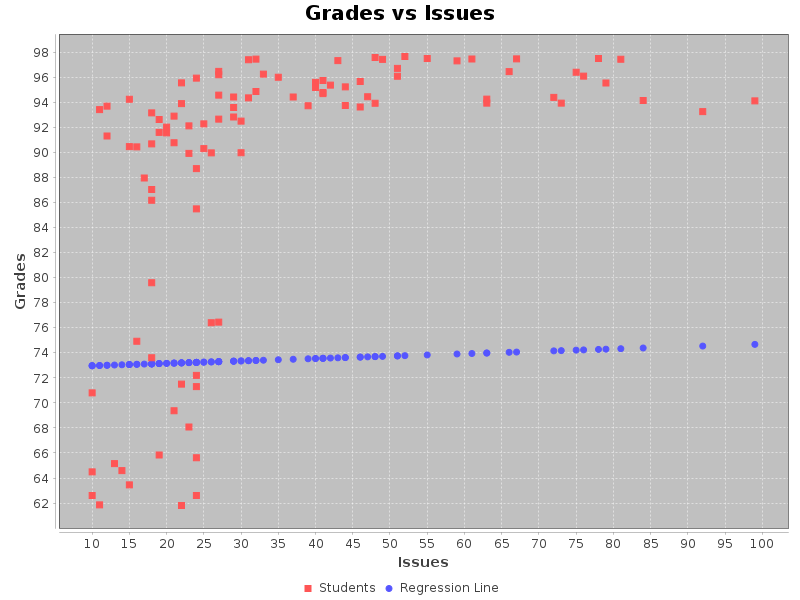
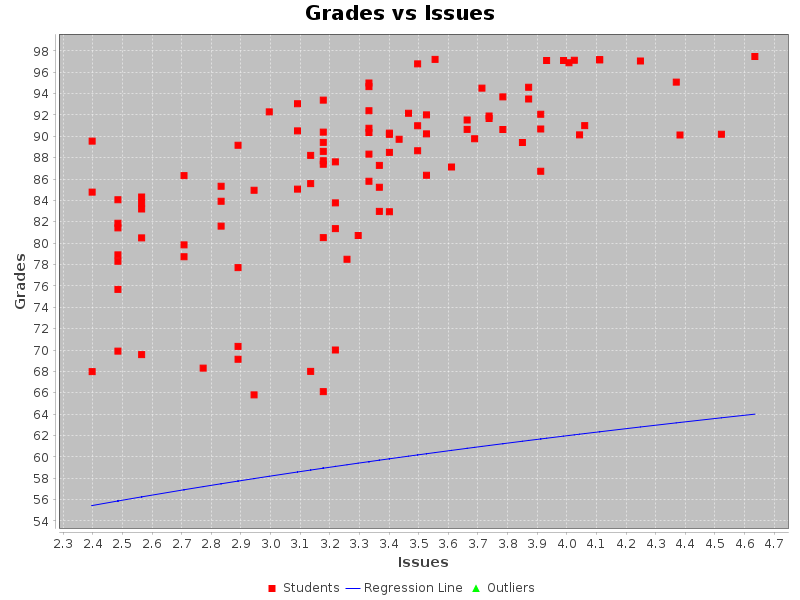
EVERYTHING UPDATED WE UP NOW

diff --git a/src/main/java/com/nighthawk/spring_portfolio/mvc/models/MultiVarAnalyticsGradeRegression.java b/src/main/java/com/nighthawk/spring_portfolio/mvc/models/MultiVarAnalyticsGradeRegression.java
@@ -1,7 +1,10 @@
 package com.nighthawk.spring_portfolio.mvc.models;
 
+import java.awt.Color;
 import java.awt.image.BufferedImage;
 import java.util.Arrays;
+import java.util.List;
+import java.util.ArrayList;
 
 import javax.imageio.ImageIO;
 
@@ -14,18 +17,17 @@ import org.apache.commons.math3.linear.RealVector;
 import org.jfree.chart.ChartFactory;
 import org.jfree.chart.JFreeChart;
 import org.jfree.chart.plot.PlotOrientation;
+import org.jfree.chart.renderer.xy.XYLineAndShapeRenderer;
 import org.jfree.data.xy.XYSeries;
 import org.jfree.data.xy.XYSeriesCollection;
 
 public class MultiVarAnalyticsGradeRegression {
+
     public static void main(String[] args) {
-        // Mock data representing GitHub analytics for each student
-        // Generate mock data representing GitHub analytics for 100 students
         int numStudents = 100;
         double[][] xData = MockDataGenerator.generateXData(numStudents);
         double[] yData = MockDataGenerator.generateYData(xData);
 
-        // Calculate coefficients
         double[] coefficients = calculateCoefficients(xData, yData);
         double[] coefficientsCommits = {coefficients[0], coefficients[1]};
         double[] coefficientsPulls = {coefficients[0], coefficients[2]};
@@ -40,10 +42,10 @@ public class MultiVarAnalyticsGradeRegression {
         displayChart(getColumn(xData, 3), yData, coefficientsRepos, "ReposContributedTo");
     }
 
-    public static double[][] getColumn(double[][] matrix, int columnIndex) {
-        double[][] column = new double[matrix.length][1];
+    public static double[] getColumn(double[][] matrix, int columnIndex) {
+        double[] column = new double[matrix.length];
         for (int i = 0; i < matrix.length; i++) {
-            column[i][0] = matrix[i][columnIndex];
+            column[i] = matrix[i][columnIndex];
         }
         return column;
     }
@@ -51,52 +53,87 @@ public class MultiVarAnalyticsGradeRegression {
     public static double[] calculateCoefficients(double[][] xData, double[] yData) {
         int n = xData.length;
         int m = xData[0].length;
-
-        // Construct matrix X and vector Y
-        RealMatrix X = new Array2DRowRealMatrix(n, m + 1);
-        RealVector Y = new ArrayRealVector(yData, false);
-
+    
+        // Calculate 10th and 75th percentiles for each predictor
+        double[] q10s = new double[m];
+        double[] q75s = new double[m];
+        for (int j = 0; j < m; j++) {
+            double[] column = getColumn(xData, j);
+            q10s[j] = calculateQuantile(column, 0.15);
+            q75s[j] = calculateQuantile(column, 0.85);
+        }
+    
+        // Filter data to only include rows between 10th and 75th percentiles for all predictors
+        List<double[]> filteredXList = new ArrayList<>();
+        List<Double> filteredYList = new ArrayList<>();
+        for (int i = 0; i < n; i++) {
+            boolean include = true;
+            for (int j = 0; j < m; j++) {
+                if (xData[i][j] < q10s[j] || xData[i][j] > q75s[j]) {
+                    include = false;
+                    break;
+                }
+            }
+            if (include) {
+                filteredXList.add(xData[i]);
+                filteredYList.add(yData[i]);
+            }
+        }
+        double[][] filteredX = filteredXList.toArray(new double[0][0]);
+        double[] filteredY = filteredYList.stream().mapToDouble(Double::doubleValue).toArray();
+    
+        // Now perform regression on filtered data
+        n = filteredX.length;
+        RealMatrix X = new Array2DRowRealMatrix(n, m + 1); // +1 for bias term
+        RealVector Y = new ArrayRealVector(filteredY, false);
+    
         for (int i = 0; i < n; i++) {
             X.setEntry(i, 0, 1);  // Bias term
             for (int j = 0; j < m; j++) {
-                X.setEntry(i, j + 1, xData[i][j]);
+                X.setEntry(i, j + 1, filteredX[i][j]);
             }
         }
-
-        // Calculate coefficients using the formula: (X^T * X + lambda*I)^(-1) * X^T * Y
+    
         RealMatrix Xt = X.transpose();
         RealMatrix XtX = Xt.multiply(X);
-
-        // Add regularization term
-        double lambda = 0.01;  // Regularization parameter
+        double lambda = 0.01;
         RealMatrix identity = MatrixUtils.createRealIdentityMatrix(m + 1);
         XtX = XtX.add(identity.scalarMultiply(lambda));
-
         RealMatrix XtXInverse = new LUDecomposition(XtX).getSolver().getInverse();
         RealVector XtY = Xt.operate(Y);
-
         RealVector B = XtXInverse.operate(XtY);
-
-        return B.toArray();
-    }
-
-    public static void displayChart(double[][] xData, double[] yData, double[] coefficients, String metricName) {
-        XYSeries series = new XYSeries("Students");
-        for (int i = 0; i < xData.length; i++) {
-            series.add(xData[i][0], yData[i]);
-        }
     
+        return B.toArray();
+    }        
+    
+
+    public static void displayChart(double[] xData, double[] yData, double[] coefficients, String metricName) {
+        XYSeries series = new XYSeries("Students");
         XYSeries regressionLine = new XYSeries("Regression Line");
+        XYSeries outliers = new XYSeries("Outliers");
+    
+        double q1 = calculateQuantile(xData, 0.25);
+        double q3 = calculateQuantile(xData, 0.75);
+        double iqr = q3 - q1;
+        double lowerBound = q1 - 0.5 * iqr;
+        double upperBound = q3 + 0.5 * iqr;
+    
         for (int i = 0; i < xData.length; i++) {
-            double predictedY = coefficients[0] + coefficients[1] * xData[i][0];
-            regressionLine.add(xData[i][0], predictedY);
+            if (xData[i] < lowerBound || xData[i] > upperBound) {
+                outliers.add(xData[i], yData[i]);
+            } else {
+                series.add(xData[i], yData[i]);
+                double predictedY = coefficients[0] + coefficients[1] * xData[i];
+                regressionLine.add(xData[i], predictedY);
+            }
         }
     
         XYSeriesCollection dataset = new XYSeriesCollection();
         dataset.addSeries(series);
         dataset.addSeries(regressionLine);
+        dataset.addSeries(outliers);
     
-        JFreeChart chart = ChartFactory.createScatterPlot(  // <-- Change this line
+        JFreeChart chart = ChartFactory.createScatterPlot(
                 "Grades vs " + metricName,
                 metricName,
                 "Grades",
@@ -106,13 +143,43 @@ public class MultiVarAnalyticsGradeRegression {
                 true,
                 false
         );
-
+    
+        XYLineAndShapeRenderer renderer = new XYLineAndShapeRenderer();
+        renderer.setSeriesLinesVisible(0, false);
+        renderer.setSeriesShapesVisible(0, true);
+        renderer.setSeriesLinesVisible(1, true);
+        renderer.setSeriesShapesVisible(1, false);
+        renderer.setSeriesShapesVisible(2, true);
+        renderer.setSeriesLinesVisible(2, false);
+        renderer.setSeriesPaint(2, Color.GREEN);
+    
+        chart.getXYPlot().setRenderer(renderer);
+    
         try {
             BufferedImage chartImage = chart.createBufferedImage(800, 600);
-            ImageIO.write(chartImage, "png", new java.io.File("src/main/resources/static/images/" + metricName + ".png"));
+            ImageIO.write(chartImage, "png", new java.io.File( metricName + ".png"));
             System.out.println("Chart saved as " + metricName + ".png");
         } catch (java.io.IOException e) {
             System.err.println("Problem occurred creating chart.");
         }
     }
+
+    public static double calculateQuantile(double[] data, double quantile) {
+        double[] sortedData = data.clone();
+        Arrays.sort(sortedData);
+        int n = sortedData.length;
+    
+        if (quantile < 0 || quantile > 1) {
+            throw new IllegalArgumentException("Quantile should be between 0 and 1");
+        }
+    
+        double pos = (n - 1) * quantile;
+        int lower = (int) Math.floor(pos);
+        int upper = (int) Math.ceil(pos);
+        if (lower == upper) {
+            return sortedData[lower];
+        }
+        double weight = pos - lower;
+        return (1 - weight) * sortedData[lower] + weight * sortedData[upper];
+    }    
 }

diff --git a/src/main/java/com/nighthawk/spring_portfolio/mvc/models/MockDataGenerator.java b/src/main/java/com/nighthawk/spring_portfolio/mvc/models/MockDataGenerator.java
@@ -40,6 +40,6 @@ public class MockDataGenerator {
         double issueGrade = (issues <= 30) ? 60 + (issues - 10) * 1.5 : 90 + (10 * (1 - 1 / Math.log(issues - 9)));
         double repoGrade = (reposContributed <= 7) ? 60 + (reposContributed - 2) * 5 : 90 + (10 * (1 - 1 / Math.log(reposContributed - 1)));
 
-        return 0.7 * commitGrade + 0.1 * pullRequestGrade + 0.1 * issueGrade + 0.1 * repoGrade;
+        return 0.4 * commitGrade + 0.2 * pullRequestGrade + 0.2 * issueGrade + 0.2 * repoGrade;
     }
 }
